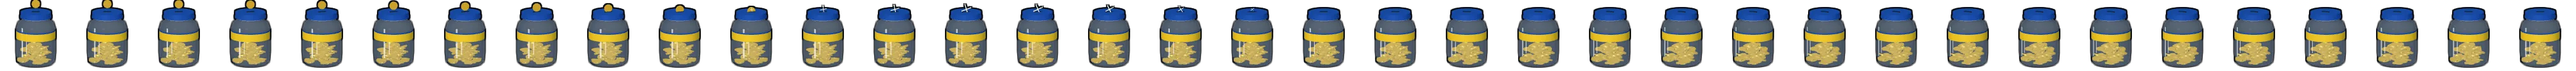
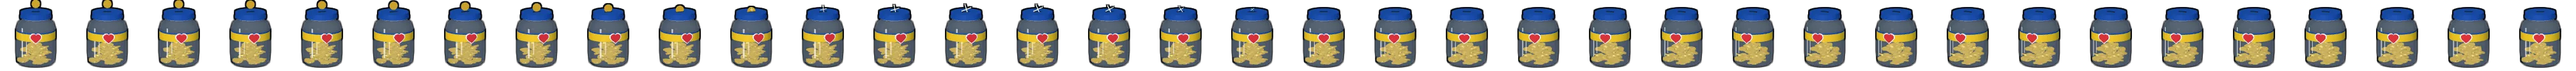
1.58.48: the jar says what it is for — "Support" under it in the reader's language, a red heart on the 3D jar, and once, on a first visit, a line pointing at it (never during an alert, in blackout, or after "never show this again")

Changed region(s): [[0.0, 0.4554, 1.0, 0.6161]]

diff --git a/static/i18n.js b/static/i18n.js
@@ -119,7 +119,7 @@ en:{
   unk_likely:'likely a drone',unk_mix:'drone or missile',th_unk_dr:'Probably a drone — type not stated',th_unk_mix:'Drone or missile — type not stated',k_unk_dr:'Prob. drone',k_unk_mix:'Drone or missile',lb_unk_dr:'prob. drone',lb_unk_mix:'drone/missile',unk_note_dr:'The post says where, not what. No missile is reported right now, so it is most likely a strike drone — a Shahed or a jet one.',unk_note_mix:'The post says where, not what — and missiles are reported in the air now: it may be a drone or a missile.',unk_likely_l:'Most likely a strike drone — that is what this channel tracks. The post did not say so.',
   m_unit:'m',alt_likely:'A stated height almost always means a drone — the monitors call heights for them.',
   sup_free:'The service is completely free. Any support for hosting, development and the volunteer work of the NGO “07300 — People for People” is sincerely appreciated.',
-  fb_title:'Feedback',fb_menu:'Send feedback · report a bug',fb_link:'Feedback',fb_intro:'Tell the team what went wrong, or what you are missing. Every message is read.',fb_k_bug:'A bug',fb_k_idea:'An idea',fb_k_map:'Wrong on the map',fb_k_other:'Other',fb_text_ph:'What happened, or what would help? For a mark: when and where you saw it.',fb_contact:'Contact, if you want an answer — Telegram @name or e-mail (optional)',fb_noplace:'Do not write your address or where you are. Sent with it: the page, its language and version, the kind of phone — never your places.',fb_send:'Send',fb_sent:'Thank you — it reached the team.',fb_err:'Not sent — check the connection and try again.',fb_short:'Write a few words first.',fb_limit:'That is enough for today — thank you, the team has your messages.',jar_aria:'Donate — keep Heimdall running',jar_btn:'Donate to the jar (Monobank)',jar_why:'Heimdall is free and has no ads. Donations pay for the servers and the developers’ time.',
+  fb_title:'Feedback',fb_menu:'Send feedback · report a bug',fb_link:'Feedback',fb_intro:'Tell the team what went wrong, or what you are missing. Every message is read.',fb_k_bug:'A bug',fb_k_idea:'An idea',fb_k_map:'Wrong on the map',fb_k_other:'Other',fb_text_ph:'What happened, or what would help? For a mark: when and where you saw it.',fb_contact:'Contact, if you want an answer — Telegram @name or e-mail (optional)',fb_noplace:'Do not write your address or where you are. Sent with it: the page, its language and version, the kind of phone — never your places.',fb_send:'Send',fb_sent:'Thank you — it reached the team.',fb_err:'Not sent — check the connection and try again.',fb_short:'Write a few words first.',fb_limit:'That is enough for today — thank you, the team has your messages.',jar_aria:'Donate — keep Heimdall running',jar_btn:'Donate to the jar (Monobank)',jar_why:'Heimdall is free and has no ads. Donations pay for the servers and the developers’ time.',jar_cap:'Support',jar_hint:'Heimdall is free — you can support it here',
   sup_hosting:'Hosting & development',sup_ngo:'NGO 07300 — volunteer work',sup_community:'Community & feedback',sup_ver:'version',
   msl_seen:'last seen {0} at {1}',msl_seen_np:'last seen at {0}',msl_reach:'could be anywhere within {0} km',msl_note:'A missile at this speed covers {0} km a minute. This circle is where it could have reached since the last report — not where it is. Take cover on the official alert, not on this map.',msl_bal:'Ballistic — arcs down from above, minutes from launch to impact',msl_cru:'Cruise — flies a route, can turn, can be re-reported',msl_band:'Banderol — a jet, launched from a drone. Not a cruise missile: slower, and a different warning',
   c_kyiv:'Kyiv',u_upd:'upd',u_updating:'updating…',u_live:'LIVE',d_h:'h',d_min:'min'
@@ -240,7 +240,7 @@ uk:{
   unk_likely:'ймовірно, дрон',unk_mix:'дрон чи ракета',th_unk_dr:'Ймовірно, дрон — тип не вказано',th_unk_mix:'Дрон чи ракета — тип не вказано',k_unk_dr:'Ймовірно, дрон',k_unk_mix:'Дрон чи ракета',lb_unk_dr:'ймов. дрон',lb_unk_mix:'дрон/ракета',unk_note_dr:'У дописі вказано місце, але не тип. Ракет зараз не повідомляють, тож найімовірніше це ударний дрон — Shahed або реактивний.',unk_note_mix:'У дописі вказано місце, але не тип — а зараз повідомляють і про ракети: це може бути дрон або ракета.',unk_likely_l:'Найімовірніше ударний дрон — саме їх відстежує цей канал. У дописі це не вказано.',
   m_unit:'м',alt_likely:'Вказана висота майже завжди означає дрон — саме для них монітори називають висоту.',
   sup_free:'Сервіс є повністю безоплатним. Будемо щиро вдячні за будь-яку підтримку хостингу, розробки та волонтерської діяльності ГО «07300 — Люди для Людей».',
-  fb_title:'Відгук',fb_menu:'Написати відгук · повідомити про помилку',fb_link:'Відгук',fb_intro:'Розкажіть команді, що пішло не так або чого вам бракує. Ми читаємо кожне повідомлення.',fb_k_bug:'Помилка',fb_k_idea:'Ідея',fb_k_map:'Неправильно на мапі',fb_k_other:'Інше',fb_text_ph:'Що сталося або що допомогло б? Про позначку: коли й де ви її бачили.',fb_contact:'Контакт, якщо хочете відповідь — Telegram @ім’я або e-mail (необов’язково)',fb_noplace:'Не пишіть свою адресу чи де ви зараз. Разом із текстом надсилається: сторінка, її мова й версія, тип телефона — ніколи ваші місця.',fb_send:'Надіслати',fb_sent:'Дякуємо — повідомлення надійшло команді.',fb_err:'Не надіслано — перевірте з’єднання й спробуйте ще раз.',fb_short:'Спершу напишіть кілька слів.',fb_limit:'На сьогодні досить — дякуємо, ваші повідомлення в команди.',jar_aria:'Донат — щоб Heimdall працював',jar_btn:'Поповнити банку (Monobank)',jar_why:'Heimdall безкоштовний і без реклами. Донати оплачують сервери й час розробників.',
+  fb_title:'Відгук',fb_menu:'Написати відгук · повідомити про помилку',fb_link:'Відгук',fb_intro:'Розкажіть команді, що пішло не так або чого вам бракує. Ми читаємо кожне повідомлення.',fb_k_bug:'Помилка',fb_k_idea:'Ідея',fb_k_map:'Неправильно на мапі',fb_k_other:'Інше',fb_text_ph:'Що сталося або що допомогло б? Про позначку: коли й де ви її бачили.',fb_contact:'Контакт, якщо хочете відповідь — Telegram @ім’я або e-mail (необов’язково)',fb_noplace:'Не пишіть свою адресу чи де ви зараз. Разом із текстом надсилається: сторінка, її мова й версія, тип телефона — ніколи ваші місця.',fb_send:'Надіслати',fb_sent:'Дякуємо — повідомлення надійшло команді.',fb_err:'Не надіслано — перевірте з’єднання й спробуйте ще раз.',fb_short:'Спершу напишіть кілька слів.',fb_limit:'На сьогодні досить — дякуємо, ваші повідомлення в команди.',jar_aria:'Донат — щоб Heimdall працював',jar_btn:'Поповнити банку (Monobank)',jar_why:'Heimdall безкоштовний і без реклами. Донати оплачують сервери й час розробників.',jar_cap:'Підтримати',jar_hint:'Heimdall безкоштовний — підтримати його можна тут',
   sup_hosting:'Хостинг і розробка',sup_ngo:'ГО 07300 — волонтерська робота',sup_community:'Спільнота та відгуки',sup_ver:'версія',
   msl_seen:'востаннє {0} о {1}',msl_seen_np:'востаннє о {0}',msl_reach:'може бути будь-де в межах {0} км',msl_note:'Ракета на такій швидкості долає {0} км за хвилину. Це коло — куди вона могла долетіти від останнього допису, а не де вона є. Ховайтеся за офіційною тривогою, а не за цією мапою.',msl_bal:'Балістична — заходить згори, від пуску до влучання кілька хвилин',msl_cru:'Крилата — летить маршрутом, може змінити курс, її можуть помітити знову',msl_band:'Бандероль — реактивний, запускається з безпілотника. Не крилата ракета: повільніший, і це інше попередження',
   c_kyiv:'Київ',u_upd:'онов.',u_updating:'оновлення…',u_live:'НАЖИВО',d_h:'год',d_min:'хв'
@@ -361,7 +361,7 @@ fr:{
   unk_likely:'probablement un drone',unk_mix:'drone ou missile',th_unk_dr:'Probablement un drone — type non précisé',th_unk_mix:'Drone ou missile — type non précisé',k_unk_dr:'Drone prob.',k_unk_mix:'Drone ou missile',lb_unk_dr:'drone prob.',lb_unk_mix:'drone/missile',unk_note_dr:"La publication dit où, pas quoi. Aucun missile n'est signalé en ce moment : c'est très probablement un drone d'attaque — Shahed ou à réaction.",unk_note_mix:"La publication dit où, pas quoi — et des missiles sont signalés en ce moment : ce peut être un drone ou un missile.",unk_likely_l:"Probablement un drone d'attaque — c'est ce que suit ce canal. La publication ne le dit pas.",
   m_unit:'m',alt_likely:"Une altitude annoncée signifie presque toujours un drone — c'est pour eux que les moniteurs donnent la hauteur.",
   sup_free:'Le service est entièrement gratuit. Tout soutien à l’hébergement, au développement et au travail bénévole de l’ONG « 07300 — Des gens pour les gens » est sincèrement apprécié.',
-  fb_title:'Votre avis',fb_menu:'Donner votre avis · signaler un bug',fb_link:'Votre avis',fb_intro:'Dites à l’équipe ce qui n’a pas marché, ou ce qui vous manque. Chaque message est lu.',fb_k_bug:'Un bug',fb_k_idea:'Une idée',fb_k_map:'Erreur sur la carte',fb_k_other:'Autre',fb_text_ph:'Que s’est-il passé, ou qu’est-ce qui aiderait ? Pour une marque : quand et où vous l’avez vue.',fb_contact:'Contact, si vous voulez une réponse — Telegram @nom ou e-mail (facultatif)',fb_noplace:'N’écrivez pas votre adresse ni où vous êtes. Envoyé avec le message : la page, sa langue et sa version, le type de téléphone — jamais vos lieux.',fb_send:'Envoyer',fb_sent:'Merci — l’équipe l’a reçu.',fb_err:'Pas envoyé — vérifiez la connexion et réessayez.',fb_short:'Écrivez d’abord quelques mots.',fb_limit:'C’est assez pour aujourd’hui — merci, l’équipe a vos messages.',jar_aria:'Faire un don — pour que Heimdall tourne',jar_btn:'Donner dans la cagnotte (Monobank)',jar_why:'Heimdall est gratuit et sans publicité. Les dons paient les serveurs et le temps des développeurs.',
+  fb_title:'Votre avis',fb_menu:'Donner votre avis · signaler un bug',fb_link:'Votre avis',fb_intro:'Dites à l’équipe ce qui n’a pas marché, ou ce qui vous manque. Chaque message est lu.',fb_k_bug:'Un bug',fb_k_idea:'Une idée',fb_k_map:'Erreur sur la carte',fb_k_other:'Autre',fb_text_ph:'Que s’est-il passé, ou qu’est-ce qui aiderait ? Pour une marque : quand et où vous l’avez vue.',fb_contact:'Contact, si vous voulez une réponse — Telegram @nom ou e-mail (facultatif)',fb_noplace:'N’écrivez pas votre adresse ni où vous êtes. Envoyé avec le message : la page, sa langue et sa version, le type de téléphone — jamais vos lieux.',fb_send:'Envoyer',fb_sent:'Merci — l’équipe l’a reçu.',fb_err:'Pas envoyé — vérifiez la connexion et réessayez.',fb_short:'Écrivez d’abord quelques mots.',fb_limit:'C’est assez pour aujourd’hui — merci, l’équipe a vos messages.',jar_aria:'Faire un don — pour que Heimdall tourne',jar_btn:'Donner dans la cagnotte (Monobank)',jar_why:'Heimdall est gratuit et sans publicité. Les dons paient les serveurs et le temps des développeurs.',jar_cap:'Soutenir',jar_hint:'Heimdall est gratuit — vous pouvez le soutenir ici',
   sup_hosting:'Hébergement et développement',sup_ngo:'ONG 07300 — travail bénévole',sup_community:'Communauté et retours',sup_ver:'version',
   msl_seen:'vu pour la dernière fois {0} à {1}',msl_seen_np:'vu pour la dernière fois à {0}',msl_reach:'peut être n\'importe où dans un rayon de {0} km',msl_note:"Un missile à cette vitesse parcourt {0} km par minute. Ce cercle est la zone qu'il a pu atteindre depuis le dernier rapport — pas l'endroit où il est. Mettez-vous à l'abri sur l'alerte officielle, pas sur cette carte.",msl_bal:"Balistique — plonge depuis la haute altitude, quelques minutes entre le tir et l'impact",msl_cru:'De croisière — suit une route, peut virer, peut être re-signalé',msl_band:"Banderol — missile à réaction lancé par drone : plus lent qu'un missile de croisière, et ce n'en est pas un",
   c_kyiv:'Kyiv',u_upd:'màj',u_updating:'mise à jour…',u_live:'DIRECT',d_h:'h',d_min:'min'

diff --git a/static/kyiv.html b/static/kyiv.html
@@ -269,6 +269,18 @@ button.chip{cursor:pointer;font-family:var(--mono)}button.chip:hover{border-colo
 @keyframes jarglow{0%,72%,100%{box-shadow:0 0 0 0 rgba(242,193,78,0)}82%{box-shadow:0 0 16px 4px rgba(242,193,78,.55)}}
 body.m-day .jarbtn{background:radial-gradient(circle at 50% 62%,rgba(242,193,78,.35),#fff 72%);border-color:#c9971d}
 body.m-night .jarbtn{background:#070a0f;border-color:#5c4a1c;animation:none}body.m-night .jarbtn .jar3d{opacity:.55}
+/* 1.58.48, the owner: "make it more obvious that the jar is for supporting the app" — its word under it ("Support" /
+   "Підтримати" / "Soutenir"), a heart on the jar (jar3d.webp), and once, on a first visit, a line pointing at it */
+.jarbtn{width:72px;height:68px;flex-direction:column;gap:1px;padding:2px 0 5px}
+.jarbtn .jar3d{width:44px;height:44px}.jarbtn svg{width:30px;height:30px;margin:6px 0 4px}
+.jarcap{display:block;font:800 9px/1 var(--sans);letter-spacing:.02em;text-transform:uppercase;color:#f2c14e;white-space:nowrap}
+body.m-day .jarcap{color:#8a6512}body.m-night .jarcap{color:#9c8545}
+.jarhint{position:absolute;right:62px;bottom:90px;z-index:3;max-width:210px;padding:8px 11px;border-radius:var(--r);background:#f2c14e;color:#12161c;font:700 12.5px/1.3 var(--sans);box-shadow:0 4px 16px rgba(0,0,0,.45);cursor:pointer}
+.jarhint::after{content:"";position:absolute;right:30px;bottom:-6px;border:6px solid transparent;border-bottom:0;border-top-color:#f2c14e}
+.jarhint[hidden]{display:none}body.lite .jarhint{display:none}.attrib.long:not([hidden])~.jarhint{bottom:144px}
+@media (min-width:1000px){.jarhint{bottom:102px}}
+@media (prefers-reduced-motion:no-preference){.jarhint:not([hidden]){animation:jarhintin .35s ease-out}}
+@keyframes jarhintin{from{opacity:0;transform:translateY(6px)}to{opacity:1;transform:none}}
 @media (min-width:1000px){.jarbtn{bottom:24px}}
 body.lite .jarbtn{display:none}body.m-day .jarbtn{color:#12161c}body.m-night .jarbtn{color:#8fa3b8}body.m-night .jarbtn .jc{fill:#7a6a3a;stroke:none}
 .jarlink{display:flex;align-items:center;justify-content:center;gap:8px;min-height:48px;margin:12px 0 4px;border-radius:var(--r);background:#f2c14e;color:#12161c!important;font-weight:700;text-decoration:none}
@@ -1411,7 +1423,9 @@ body.lite #mycard,body.lite .panel{background:#000;border-color:#666}body.lite .
   <div class="mapctl"><button id="laybtn" type="button" data-t-title="m_layers" data-t-aria="m_layers" title="Map layers" aria-label="Map layers"><svg viewBox="0 0 24 24" aria-hidden="true"><path d="M12 3 3 8l9 5 9-5-9-5z"/><path d="m3 13 9 5 9-5"/></svg></button><button id="zin" type="button" aria-label="+">+</button><button id="zout" type="button" aria-label="−">−</button><button id="zkyiv" type="button" data-t-title="t_center" data-t-aria="t_center" title="Centre on my place"><svg viewBox="0 0 24 24" aria-hidden="true"><circle cx="12" cy="12" r="6.5"/><circle cx="12" cy="12" r="1.6" fill="currentColor" stroke="none"/><path d="M12 2.5v4M12 17.5v4M2.5 12h4M17.5 12h4"/></svg></button><button id="rpbtn" type="button" data-t-title="rp_open" data-t-aria="rp_open" title="Replay — the last 7 days" aria-label="Replay — the last 7 days"><svg viewBox="0 0 24 24" aria-hidden="true"><path d="M3.5 12a8.5 8.5 0 1 0 2.6-6.1"/><path d="M3 4v4.5h4.5"/><path d="M12 7.5V12l3 2"/></svg></button><button id="fsbtn" type="button" data-t-title="m_full" data-t-aria="m_full" title="Full-screen map" aria-label="Full-screen map"><svg viewBox="0 0 24 24" aria-hidden="true"><path class="fsin" d="M4 9V4h5M15 4h5v5M20 15v5h-5M9 20H4v-5"/><path class="fsout" d="M9 4v5H4M20 9h-5V4M15 20v-5h5M4 15h5v5"/></svg></button></div>
   <!-- 1.58.46: the donation jar (the owner: "a small jar with coins at the bottom right of the map, for users who want to
        donate to keep the infrastructure and help the devs") — opens the support sheet, with the owner's Monobank jar -->
-  <button class="jarbtn" id="jarbtn" type="button" data-t-title="jar_aria" data-t-aria="jar_aria" title="Donate — keep Heimdall running" aria-label="Donate — keep Heimdall running"><svg viewBox="0 0 24 24" aria-hidden="true"><circle class="jc drop" cx="12" cy="1.8" r="1.6"/><path class="jl" d="M8 4.2h8v2.4H8z"/><path class="jj" d="M8.4 6.6h7.2v1.2c2.2.9 3.4 2.6 3.4 5.2v5.4a2.4 2.4 0 0 1-2.4 2.4H7.4A2.4 2.4 0 0 1 5 18.4V13c0-2.6 1.2-4.3 3.4-5.2z"/><ellipse class="jc" cx="9.6" cy="18.2" rx="2.1" ry="1.1"/><ellipse class="jc" cx="14.2" cy="18.4" rx="2.1" ry="1.1"/><ellipse class="jc" cx="11.9" cy="16.6" rx="2.1" ry="1.1"/><ellipse class="jc" cx="13.6" cy="14.7" rx="1.9" ry="1"/></svg><span class="jar3d" aria-hidden="true"></span></button>
+  <button class="jarbtn" id="jarbtn" type="button" data-t-title="jar_aria" data-t-aria="jar_aria" title="Donate — keep Heimdall running" aria-label="Donate — keep Heimdall running"><svg viewBox="0 0 24 24" aria-hidden="true"><circle class="jc drop" cx="12" cy="1.8" r="1.6"/><path class="jl" d="M8 4.2h8v2.4H8z"/><path class="jj" d="M8.4 6.6h7.2v1.2c2.2.9 3.4 2.6 3.4 5.2v5.4a2.4 2.4 0 0 1-2.4 2.4H7.4A2.4 2.4 0 0 1 5 18.4V13c0-2.6 1.2-4.3 3.4-5.2z"/><ellipse class="jc" cx="9.6" cy="18.2" rx="2.1" ry="1.1"/><ellipse class="jc" cx="14.2" cy="18.4" rx="2.1" ry="1.1"/><ellipse class="jc" cx="11.9" cy="16.6" rx="2.1" ry="1.1"/><ellipse class="jc" cx="13.6" cy="14.7" rx="1.9" ry="1"/></svg><span class="jar3d" aria-hidden="true"></span><span class="jarcap" data-t="jar_cap" aria-hidden="true">Support</span></button>
+  <!-- 1.58.48: once, on a first visit, a line pointing at the jar (what it is for) -->
+  <div class="jarhint" id="jarhint" hidden role="note"><span data-t="jar_hint">Heimdall is free — you can support it here</span></div>
   <div class="tip" id="tip" hidden></div>
   <div id="heatleg" hidden><div class="hlh" id="heath"><b class="hll" data-t="hm_title">Where drones were reported</b><b class="hls" data-t="hm_short">Heat map</b><span class="hlp" id="heatp"></span><button type="button" id="heatfold" data-t-aria="hm_fold" aria-label="Fold" aria-expanded="true">▾</button><button type="button" id="heatx" data-t-aria="hm_off" aria-label="Hide">✕</button></div>
     <div class="hlbody"><div class="hlw" id="heatw"></div><div class="hlt" id="heattop"></div><div class="hlr" id="heatramp"></div><div class="hln" data-t="hm_not_live">Not live.</div><div class="hln" data-t="hm_alerts">Official alerts: a faint tint while it is on.</div></div></div>
@@ -4060,6 +4074,12 @@ $('supbtn').onclick=()=>{closePanels();supportSheet();};
 // 1.58.46: the map's jar — the support sheet; the jar's link is asked for once, a few seconds after the page opens
 let DONATE_JAR='';
 setTimeout(()=>fetch('/api/donate',{cache:'no-store'}).then(r=>r.ok?r.json():null).then(d=>{ if(d&&typeof d.jar==='string') DONATE_JAR=d.jar; }).catch(()=>{}),4000);
+// 1.58.48: once, on a first visit, a line pointing at the jar — never while an alert is on, never in the blackout look, never
+// for a reader who asked not to be reminded; it goes after 8 s, or opens the support sheet when tapped
+setTimeout(()=>{ if(ls('jar_hint')==='1'||ls('sup_never')==='1'||document.body.classList.contains('lite')) return;
+  if(S&&S.active&&S.active.length) return;
+  const h=$('jarhint'); if(!h) return; ls('jar_hint','1'); h.hidden=false;
+  const off=()=>{ h.hidden=true; }; h.onclick=()=>{ off(); $('jarbtn').click(); }; setTimeout(off,8000); },20000);
 // 1.58.47: the 3D jar's strip, a few seconds after the page opens — not with "save data", not in the blackout look
 setTimeout(()=>{ let sd=false; try{ sd=!!(navigator.connection&&navigator.connection.saveData); }catch(e){}
   if(sd||document.body.classList.contains('lite')) return;

diff --git a/docs/manual.html b/docs/manual.html
@@ -4,8 +4,8 @@
 <meta charset="utf-8">
 <meta name="viewport" content="width=device-width,initial-scale=1,viewport-fit=cover">
 <meta name="description" content="Heimdall (Kyiv Air Watch) — the full technical documentation, with a map of the system.">
-<meta name="heimdall-version" content="1.58.47">
-<meta name="heimdall-docs" content="347031347ad1868d">
+<meta name="heimdall-version" content="1.58.48">
+<meta name="heimdall-docs" content="3d27e112e6299293">
 <style>:root{padding-top:env(safe-area-inset-top,0px);padding-bottom:env(safe-area-inset-bottom,0px)}body{margin:0}img{max-width:100%}[hidden]{display:none!important}</style>
 <title>Heimdall Technical Manual</title>
 <link rel="preconnect" href="https://fonts.googleapis.com">
@@ -237,7 +237,7 @@ figure.map{margin:0;background:var(--panel);border:1px solid var(--line);border-
 <header class="top">
   <div class="wrap">
     <a class="brand" href="#top"><b>Heimdall</b><span>Technical manual</span></a>
-    <span class="ver">1.58.47</span>
+    <span class="ver">1.58.48</span>
     <nav class="nav" aria-label="Sections">
       <a href="#map">Map</a><a href="#journeys">Journeys</a><a href="#rules">Rules</a><a href="#reference">Reference</a><a href="#safety">Safety</a>
     </nav>
@@ -256,7 +256,7 @@ figure.map{margin:0;background:var(--panel);border:1px solid var(--line);border-
       <h1 class="title">How Heimdall works</h1>
       <p class="lead">An unofficial air-threat map for Kyiv and the oblasts around it. One Python process reads the official
       alert data and the channels that track drones and missiles, stores every post before it reads it, rebuilds the map
-      on every pass, and serves the pages and the pushes. This manual is the repository's own documentation, as of version 1.58.47, 22 October 2026:
+      on every pass, and serves the pages and the pushes. This manual is the repository's own documentation, as of version 1.58.48, 22 October 2026:
       the map first, then everything in full.</p>
     </div>
     <dl class="facts">
@@ -647,7 +647,7 @@ figure.map{margin:0;background:var(--panel);border:1px solid var(--line);border-
     <div class="doc" id="doc">
 <section class="part" id="tech" data-label="Reference"><p class="partlabel">Part I · The reference</p>
 <h1 id="heimdall--technical-documentation">Heimdall — technical documentation</h1>
-<p><strong>Documented version: 1.58</strong> · last updated 2026-10-22 (1.58.47)</p>
+<p><strong>Documented version: 1.58</strong> · last updated 2026-10-22 (1.58.48)</p>
 <p>The repository is <strong>Dread92/Heimdall-map</strong>. The app's address is <strong>https://heimdall.com.ua</strong> (1.58.34, 18 October
 2026); the Fly app keeps its first name, <code>kyiv-air-watch-gb</code>, and its first address keeps working (§15 has the move).</p>
 <p>This is the complete technical reference: what runs, where the data comes from, how a Telegram post becomes a
@@ -3930,6 +3930,11 @@ photographed once into <code>static/jar3d.webp</code> (<code>scripts/render_jar.
 soft glow every few seconds (not with less motion); the strip is asked for 3 s after the page opens, never with &quot;save
 data&quot; or in the blackout look — until then, and if it never comes, the drawing. The look's tag (<code>#modetag</code>, day /
 night) moved to the top right, off the jar.</li>
+<li><strong>1.58.48, what the jar is for</strong> (the owner: &quot;make it more obvious that the jar of coins is for supporting the app&quot;): its
+word under it (<code>jar_cap</code>: &quot;Підтримати&quot; / &quot;Support&quot; / &quot;Soutenir&quot;; the button is 72 × 68), a red heart on the jar's band
+(<code>jar3d.webp</code> rendered again), and once, on a first visit, 20 s after the page opens, a line pointing at it (<code>#jarhint</code>,
+<code>jar_hint</code>) for 8 s — tapping it opens the support sheet; never while an alert is on, in the blackout look, or for a
+reader who chose &quot;Never show this again&quot; (<code>sup_never</code>); <code>jar_hint</code> in localStorage remembers it was shown.</li>
 </ul>
 <h2 id="11-privacy-and-security">11. Privacy and security<a class="anc" href="#11-privacy-and-security" aria-label="Link to this section">#</a></h2>
 <ul>
@@ -6000,7 +6005,7 @@ d'alerte ne sont pas des préférences de style.</p>
 </section>
     </div>
   </div>
-  <footer class="wrap foot">Built from the repository's <span style="font-family:var(--mono)">docs/</span> at version 1.58.47, 22 October 2026. TECHNICAL.md is updated with every patch; this page is a snapshot of it.</footer>
+  <footer class="wrap foot">Built from the repository's <span style="font-family:var(--mono)">docs/</span> at version 1.58.48, 22 October 2026. TECHNICAL.md is updated with every patch; this page is a snapshot of it.</footer>
 </main>
 
 <script>

diff --git a/static/models3d.js b/static/models3d.js
@@ -254,6 +254,17 @@ const BUILD = {
     const ring = new T.Mesh(new T.CylinderGeometry(5.8, 5.8, 0.5, 40, 1, true), rim); ring.position.y = 9.0; ring.renderOrder = 3; g.add(ring);
     const band = new T.Mesh(new T.CylinderGeometry(8.16, 8.16, 3.2, 48, 1, true), yellow); band.position.y = 1.8; g.add(band);
     const band2 = new T.Mesh(new T.CylinderGeometry(8.18, 8.18, 0.6, 48, 1, true), blue); band2.position.y = 3.7; g.add(band2);
+    // 1.58.48, the owner: "make it more obvious that the jar is for supporting the app" — a heart on the band
+    const heart = new T.Shape();
+    heart.moveTo(0, -1.25);
+    heart.bezierCurveTo(-0.3, -0.95, -1.55, -0.15, -1.55, 0.55); heart.bezierCurveTo(-1.55, 1.2, -0.95, 1.45, -0.6, 1.45);
+    heart.bezierCurveTo(-0.25, 1.45, 0, 1.15, 0, 0.9); heart.bezierCurveTo(0, 1.15, 0.25, 1.45, 0.6, 1.45);
+    heart.bezierCurveTo(0.95, 1.45, 1.55, 1.2, 1.55, 0.55); heart.bezierCurveTo(1.55, -0.15, 0.3, -0.95, 0, -1.25);
+    const hg = new T.ExtrudeGeometry(heart, {depth: 0.35, bevelEnabled: true, bevelThickness: 0.12, bevelSize: 0.1, bevelSegments: 2});
+    const red = new T.MeshStandardMaterial({color: '#e8333a', emissive: '#4a0508', roughness: 0.35, metalness: 0.1});
+    const white = new T.MeshStandardMaterial({color: '#ffffff', roughness: 0.5});
+    const h1 = new T.Mesh(hg, red); h1.scale.set(1.3, 1.3, 1); h1.position.set(0, 1.6, 8.12); g.add(h1);
+    const h0 = new T.Mesh(hg, white); h0.scale.set(1.58, 1.58, 0.6); h0.position.set(0, 1.5, 8.02); g.add(h0);
     const lid = new T.Mesh(new T.CylinderGeometry(6.3, 6.3, 2.3, 40), blue); lid.position.y = 10.25; g.add(lid);
     const lip = new T.Mesh(new T.CylinderGeometry(6.5, 6.5, 0.6, 40), blue); lip.position.y = 9.35; g.add(lip);
     const slot = new T.Mesh(new T.BoxGeometry(3.4, 0.3, 0.75), dark); slot.position.y = 11.42; g.add(slot);

diff --git a/tests/test_jar_15848.py b/tests/test_jar_15848.py
@@ -1,0 +1,34 @@
+"""1.58.48 — the jar says what it is for. The owner: "make it more obvious that the jar of coins is for supporting the app".
+Its word under it in the reader's language, a heart on the jar, and once, on a first visit, a line pointing at it — never
+during an alert, in the blackout look, or for a reader who asked not to be reminded."""
+import os
+import re
+
+ROOT = os.path.dirname(os.path.dirname(os.path.abspath(__file__)))
+
+
+def _read(*p):
+    with open(os.path.join(ROOT, *p), encoding="utf-8") as f:
+        return f.read()
+
+
+PAGE, I18N, M3D = _read("static", "kyiv.html"), _read("static", "i18n.js"), _read("static", "models3d.js")
+
+
+def test_its_word_and_its_heart():
+    assert '<span class="jarcap" data-t="jar_cap" aria-hidden="true">Support</span></button>' in PAGE
+    assert ".jarbtn{width:72px;height:68px;flex-direction:column;" in PAGE
+    for k in ("jar_cap", "jar_hint"):
+        assert len(re.findall(r"\b" + k + r":'", I18N)) == 3, k
+    assert "jar_cap:'Підтримати'" in I18N and "jar_cap:'Support'" in I18N and "jar_cap:'Soutenir'" in I18N
+    jar = M3D[M3D.index("\n  jar() {"):M3D.index("g.userData.anim = f =>")]
+    assert "heart.bezierCurveTo(" in jar and "color: '#e8333a'" in jar          # a red heart on the band
+
+
+def test_the_line_pointing_at_it_once():
+    assert '<div class="jarhint" id="jarhint" hidden role="note"><span data-t="jar_hint">' in PAGE
+    hint = PAGE[PAGE.index("// 1.58.48: once, on a first visit"):PAGE.index("// 1.58.47: the 3D jar's strip")]
+    assert "if(ls('jar_hint')==='1'||ls('sup_never')==='1'||document.body.classList.contains('lite')) return;" in hint
+    assert "if(S&&S.active&&S.active.length) return;" in hint                  # never while an alert is on
+    assert "ls('jar_hint','1'); h.hidden=false;" in hint and "setTimeout(off,8000); },20000);" in hint
+    assert "body.lite .jarhint{display:none}" in PAGE

diff --git a/tests/test_jar_15847.py b/tests/test_jar_15847.py
@@ -44,7 +44,7 @@ def test_the_strip():
 
 
 def test_the_button():
-    assert '<span class="jar3d" aria-hidden="true"></span></button>' in PAGE
+    assert '<span class="jar3d" aria-hidden="true"></span><span class="jarcap"' in PAGE     # 1.58.48: its word after it
     assert ".jarbtn .jar3d{display:none;width:48px;height:48px;background:url(/static/jar3d.webp) 0 0/3600% 100% no-repeat;animation:jarturn 4s steps(36,jump-none) infinite}" in PAGE
     assert ".jarbtn.j3 .jar3d{display:block}.jarbtn.j3 svg{display:none}" in PAGE
     assert "@media (prefers-reduced-motion:no-preference){.jarbtn{animation:jarglow" in PAGE

diff --git a/docs/TECHNICAL.md b/docs/TECHNICAL.md
@@ -1,6 +1,6 @@
 # Heimdall — technical documentation
 
-**Documented version: 1.58** · last updated 2026-10-22 (1.58.47)
+**Documented version: 1.58** · last updated 2026-10-22 (1.58.48)
 
 The repository is **Dread92/Heimdall-map**. The app's address is **https://heimdall.com.ua** (1.58.34, 18 October
 2026); the Fly app keeps its first name, `kyiv-air-watch-gb`, and its first address keeps working (§15 has the move).
@@ -2891,6 +2891,11 @@ to donate to keep the infrastructure and help the devs" (a Monobank jar, his pic
   soft glow every few seconds (not with less motion); the strip is asked for 3 s after the page opens, never with "save
   data" or in the blackout look — until then, and if it never comes, the drawing. The look's tag (`#modetag`, day /
   night) moved to the top right, off the jar.
+- **1.58.48, what the jar is for** (the owner: "make it more obvious that the jar of coins is for supporting the app"): its
+  word under it (`jar_cap`: "Підтримати" / "Support" / "Soutenir"; the button is 72 × 68), a red heart on the jar's band
+  (`jar3d.webp` rendered again), and once, on a first visit, 20 s after the page opens, a line pointing at it (`#jarhint`,
+  `jar_hint`) for 8 s — tapping it opens the support sheet; never while an alert is on, in the blackout look, or for a
+  reader who chose "Never show this again" (`sup_never`); `jar_hint` in localStorage remembers it was shown.
 
 ## 11. Privacy and security
 

diff --git a/CHANGELOG.md b/CHANGELOG.md
@@ -2,6 +2,15 @@
 
 Every patch adds an entry here and updates [docs/TECHNICAL.md](docs/TECHNICAL.md) — see its §18.
 
+## 1.58.48 — 2026-10-22
+
+The jar says what it is for.
+
+- **"Support" under the jar** (the owner: "make it more obvious that the jar of coins is for supporting the app"):
+  "Підтримати" / "Support" / "Soutenir" in gold under it, and a red heart on the jar itself.
+- **Once, on a first visit**, a short line points at it: "Heimdall is free — you can support it here" (tapping it opens
+  the support page). Never during an alert, in the blackout look, or for someone who asked not to be reminded.
+
 ## 1.58.47 — 2026-10-22
 
 The donation jar in 3D.
